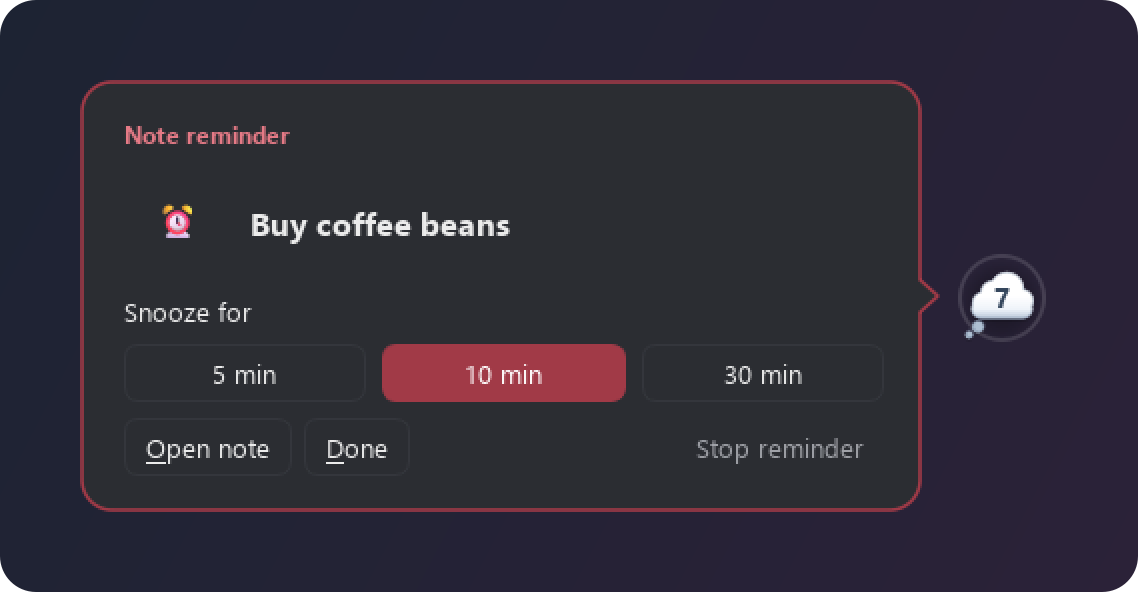
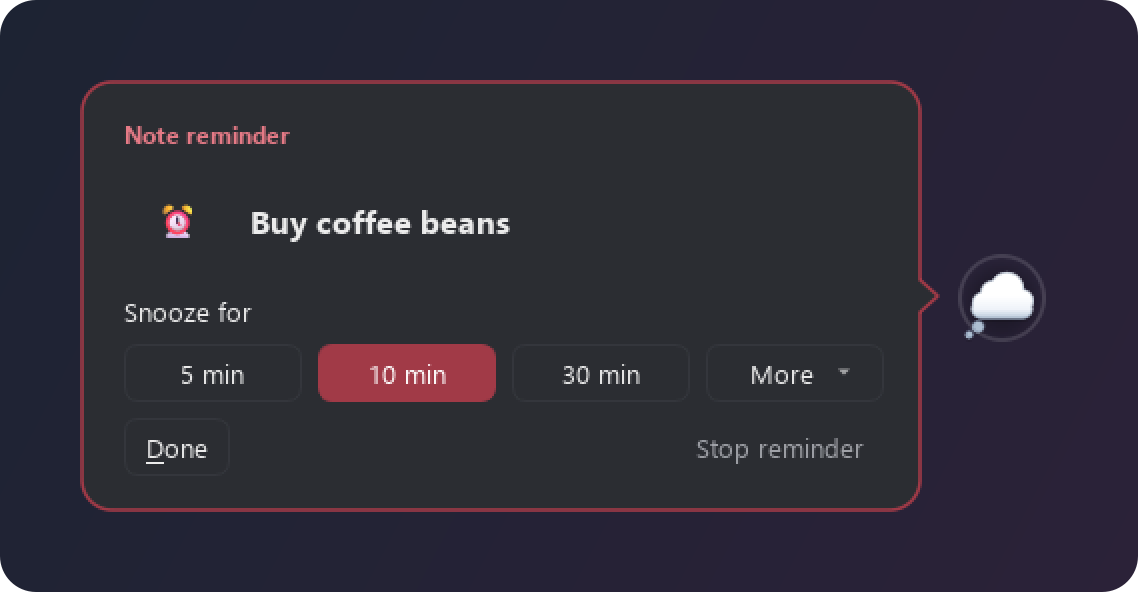
Reminder photo: More snooze menu, title link

diff --git a/README.md b/README.md
@@ -112,7 +112,7 @@ While you use the laptop, a tiny character peeks out from behind the cloud: a lo
 
 Add `20m`, `in 1 hour` or `at 3:30 pm` to any note, or press the bell. When it's due, a card grows out of the cloud with snooze buttons (**More** has 1 hour, 3 hours, tonight, tomorrow morning or any time), **Done**, and the note's name as a link that opens it. Reminders can repeat: every day, weekdays, every week, chosen days or every month. Several due at once share one card: a row per note, with **Done** and a **Snooze** menu, plus **Snooze all** and **Stop all**. It never takes what you are typing: it waits until you pause, or press the list hotkey to answer it from the keyboard (Enter snoozes, Esc snoozes too).
 
-<img src="docs/reminder.png" width="569" alt="Reminder card: Buy coffee beans, with snooze, Open note and Done">
+<img src="docs/reminder.png" width="569" alt="Reminder card: Buy coffee beans, with snooze times, a More menu and Done">
 
 ### Background noise and music
 
